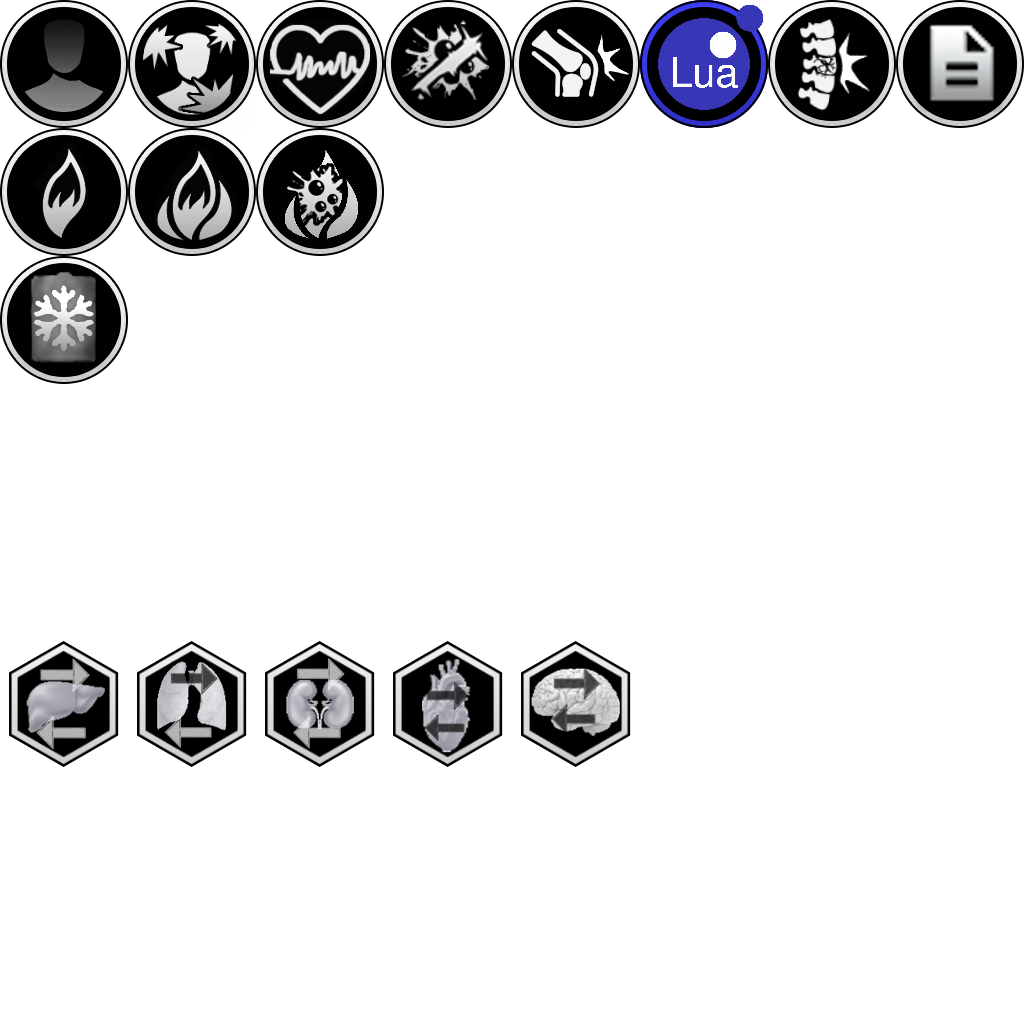
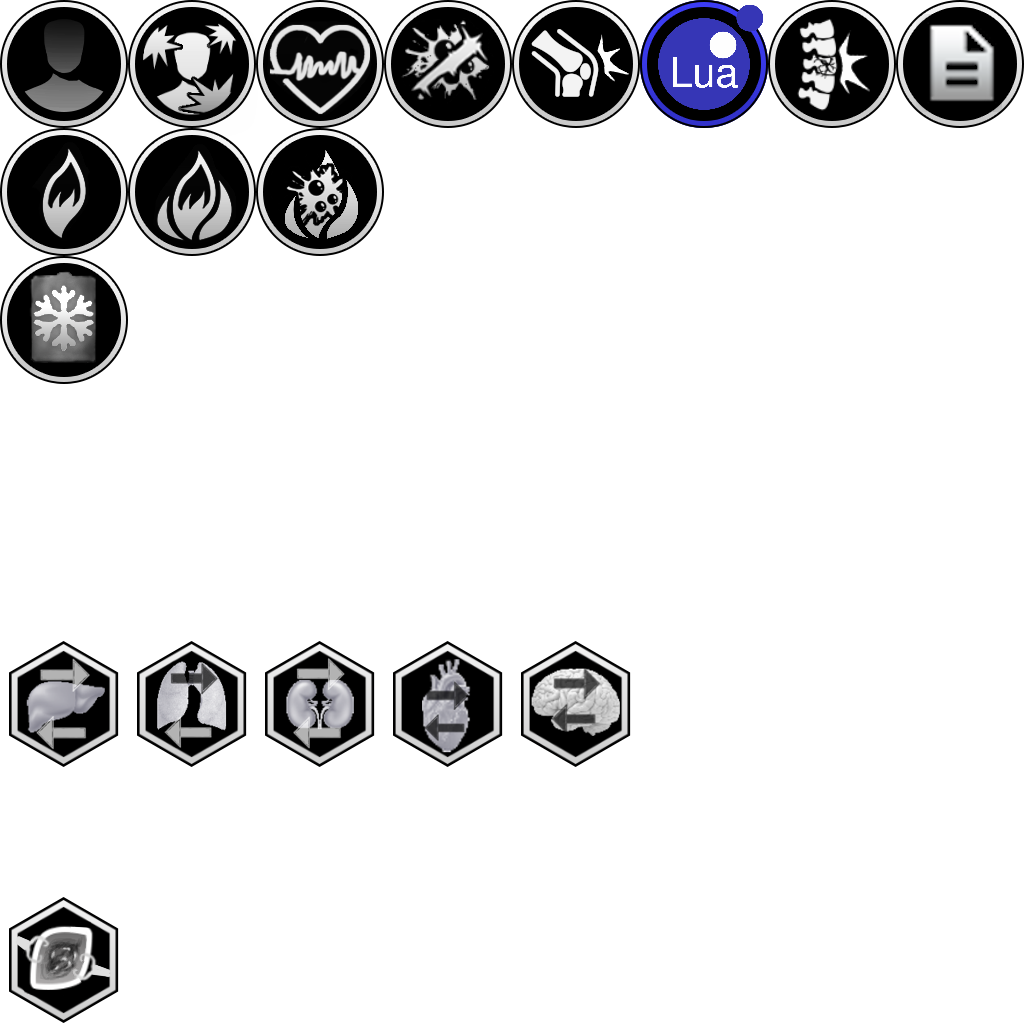
Add Cavity Infection

Changed region(s): [[0.0, 0.875, 0.125, 1.0]]

diff --git a/SharedProject/SharedSource/NT Components/Items.cs b/SharedProject/SharedSource/NT Components/Items.cs
@@ -1,4 +1,5 @@
 using static Barotrauma.Items.Components.ItemComponent;
+using static Barotrauma.Items.Components.ItemContainer;
 using static Neurotrauma.HumanUpdate;
 
 namespace Neurotrauma;
@@ -2401,7 +2402,10 @@ public class NTItemMethods
             // Stasis check
             if (HF.HasAffliction(infos.target, "stasis", 0.1f)) return;
 
-            if (infos.item.Condition <= 0) return;
+            if (infos.item.Condition <= 0)
+            {
+                return;
+            }
 
             infos.item.Condition = 0; // Start Cooldown
 
@@ -2417,10 +2421,13 @@ public class NTItemMethods
             // Surgery use
             if (hasSaline && infos.targetLimb.type == LimbType.Torso && HF.HasAffliction(infos.target, "infectedcavity", 1f) && HF.HasAffliction(infos.target, "retractedskin", 1f))
             {
+                HF.RemoveItem(containedItem);
+                HF.GiveItem(infos.target, "ntsfx_spray");
+
                 float skill = HF.GetSurgerySkill(infos.user);
                 float delay = 11000f - skill * 10f;
 
-                HF.AddAfflictionLimb(infos.target, "caviclean", infos.targetLimb.type, Math.Max(100f - skill / 2f, 10f), infos.user);
+                HF.AddAfflictionLimb(infos.target, "caviclean", infos.targetLimb.type, Math.Max(0f + skill / 2f, 10f), infos.user);
 
                 LuaCsSetup.Instance.Timer.Wait((object[] _) =>
                 {
@@ -2435,7 +2442,7 @@ public class NTItemMethods
                             HF.GiveSkillScaled(infos.user, "medical", 10000f);
                         }
                     }
-                }, (int)delay);
+                }, (int)10000);
 
                 return;
             }
@@ -2443,11 +2450,12 @@ public class NTItemMethods
             // Antiseptic use
             if (hasAntiseptic)
             {
+                containedItem.Condition -= 10f;
+
                 HF.AddAffliction(infos.target, "infectedwound", -100f, infos.user);
                 HF.AddAffliction(infos.target, "ointmented", 20f, infos.user);
+                HF.GiveItem(infos.target, "ntsfx_spray");
             }
-            
-            HF.GiveItem(infos.target, "ntsfx_spray");
         });
 
         // ============== Toggleable ==============

diff --git a/SharedProject/SharedSource/NT Components/Afflictions.cs b/SharedProject/SharedSource/NT Components/Afflictions.cs
@@ -935,10 +935,10 @@ namespace Neurotrauma
                 };
 
             // Infected Cavity
-            // Type: Non-Limb Specific, Lethal Shit
-            // Not constant; gets applied by Shit.
-            // Caused By: Shit.
-            // Effects: Shit.
+            // Type: Non-Limb Specific, Lethal
+            // Not constant; gets applied by other sources.
+            // Caused By: Damage.
+            // Effects: Sepsis.
             AfflictionsToAdd["infectedcavity"] = new("infectedcavity", 0, 100, 0, AfflictionPriority.MEDIUM);
             AfflictionsToAdd["infectedcavity"].UpdateAction =
                 (HumanUpdate.NTHuman C, string ID, LimbType Limb, HumanUpdate.NTHumanNonLimbAffData AffData) =>
@@ -2289,6 +2289,24 @@ namespace Neurotrauma
                };
 
             // =============== Surgical =============== //
+            // Cavity Cleaning
+            // Not constant; gets applied by other sources
+            // Type: Surgery, Non-Limb Specific
+            // Caused By: Antiseptic Sprayer + Saline
+            // Effects: Cures Infected Cavity
+            AfflictionsToAdd["caviclean"] = new("caviclean", 0, 100, 0, AfflictionPriority.HIGH);
+            AfflictionsToAdd["caviclean"].UpdateAction =
+               (HumanUpdate.NTHuman C, string ID, LimbType Limb, HumanUpdate.NTHumanNonLimbAffData AffData) =>
+               {
+                   // Once it hits 100, remove itself and infected cavity.
+                   if (AffData.Strength == 100)
+                   {
+                       AffData.Strength = 0;
+                       C.GetAffData("infectedcavity").Strength = 0;
+                       return;
+                   }
+               };
+
 
             // Traumatic Shock
             // Not constant; gets applied by other sources.
